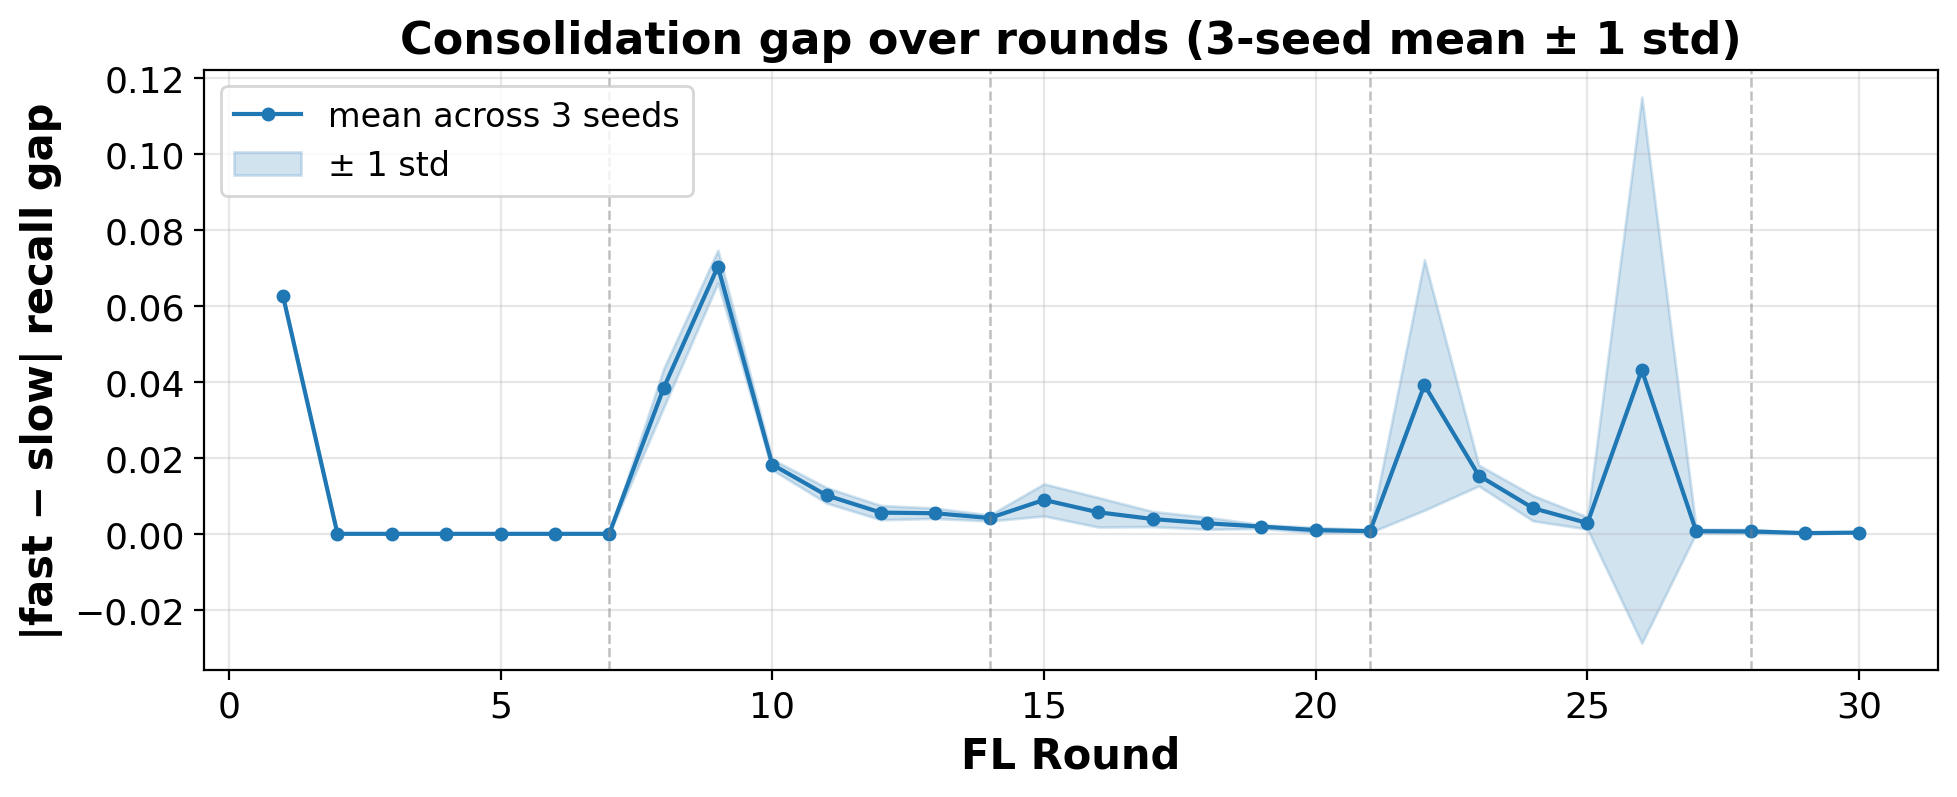
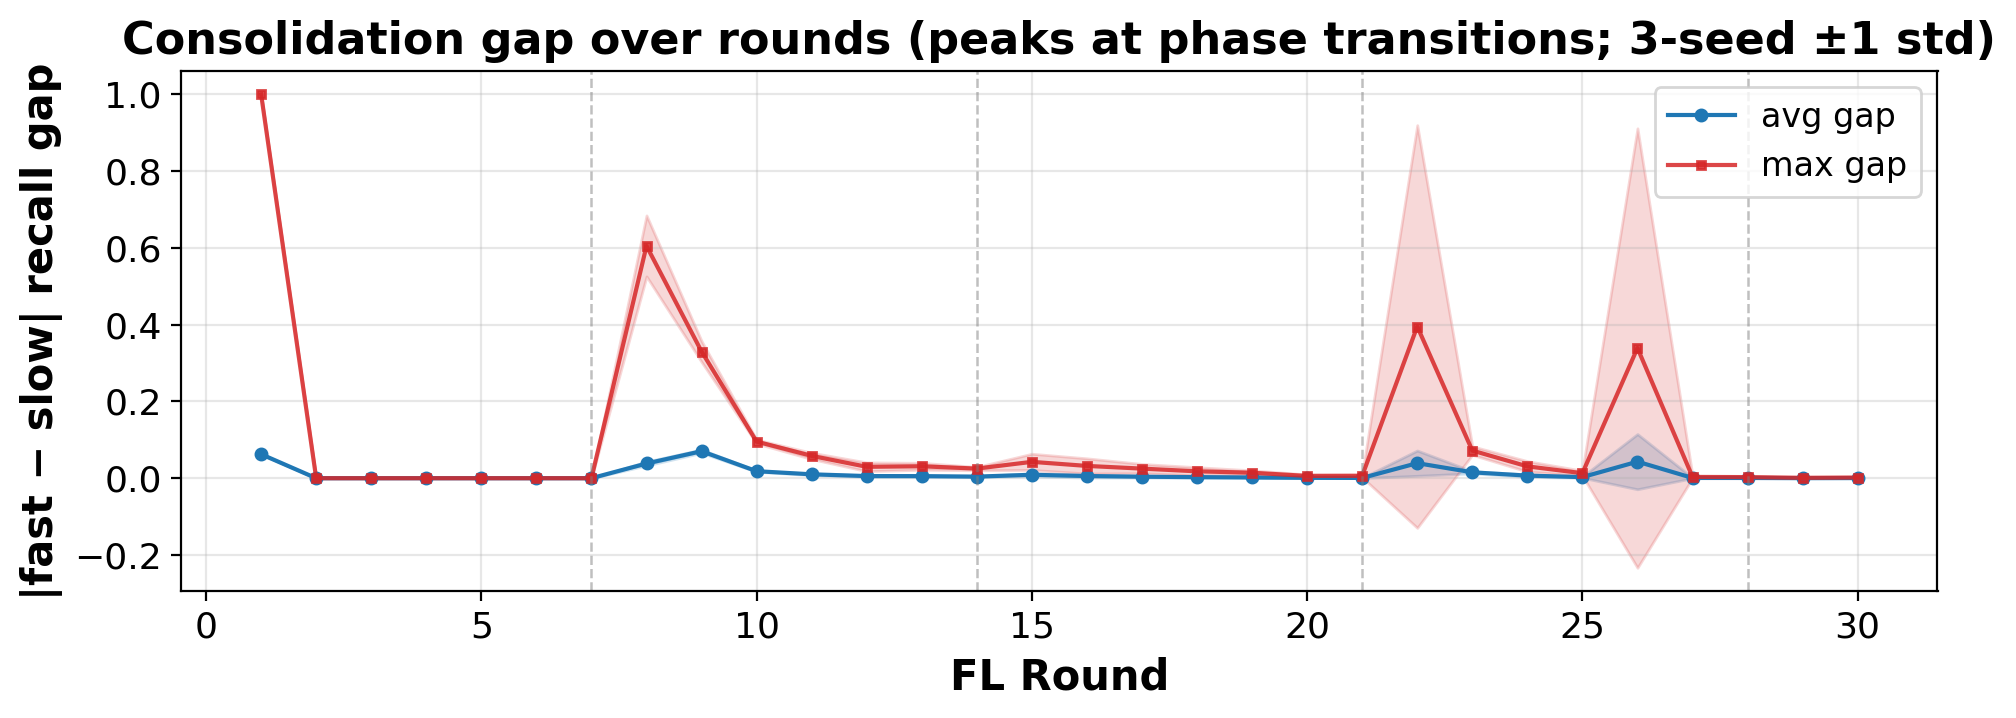
Restore Fig 4 original avg+max look, add 3-seed std bands

diff --git a/notebooks/07_bootstrap_ci.py b/notebooks/07_bootstrap_ci.py
@@ -193,7 +193,8 @@ def run_sequential_cfl_detailed(seed):
         rows.append({
             'seed': seed,
             'round': r,
-            'gap': float(np.mean(gaps)),
+            'gap':     float(np.mean(gaps)),
+            'max_gap': float(np.max(gaps)),
             'is_transition': int(r in transition_rounds),
         })
     return pd.DataFrame(rows)